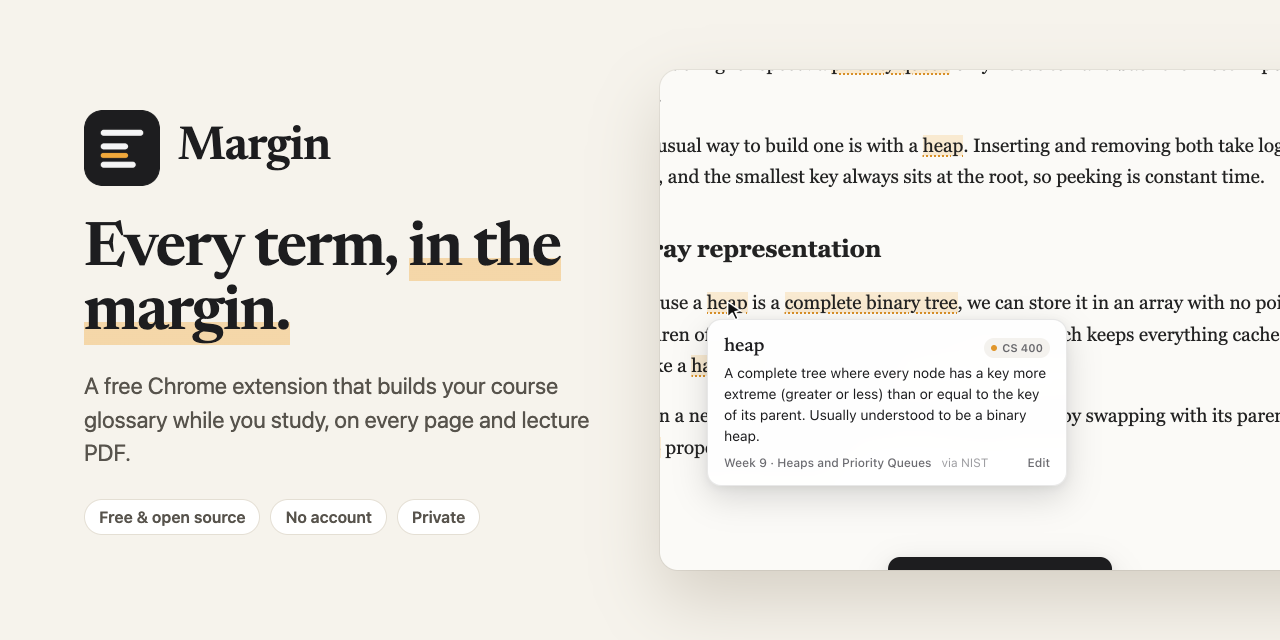
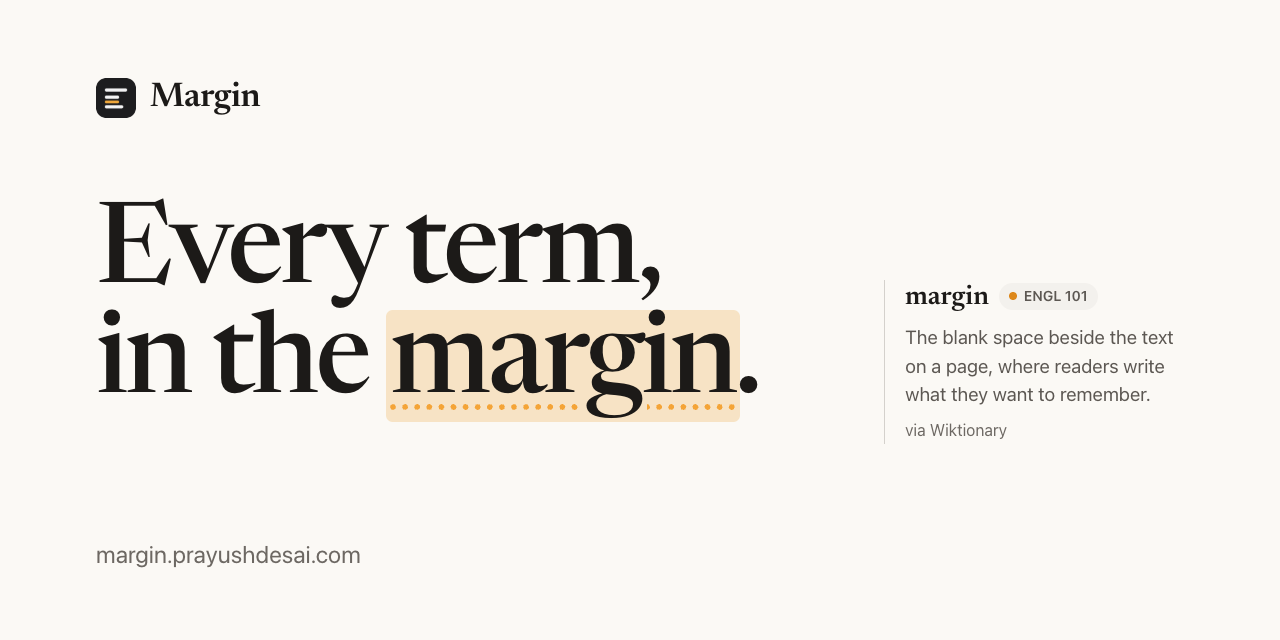
Point the repo at the new website and refresh share images
Link the website and its live demo from the README, document site/ in
CONTRIBUTING, and redraw the social preview and og image to match the
site's editorial hero.

diff --git a/README.md b/README.md
@@ -14,7 +14,7 @@ Save a term once and see its definition on Canvas, course sites and lecture PDFs
 ![No tracking](https://img.shields.io/badge/tracking-none-22a06b)
 ![Dependencies](https://img.shields.io/badge/dependencies-0-1d1d1f)
 
-[Features](#features) · [Where definitions come from](#where-definitions-come-from) · [Privacy](#privacy) · [How it works](#how-it-works) · [Contributing](CONTRIBUTING.md)
+**[Website](https://margin.prayushdesai.com)** · [Try it in your browser](https://margin.prayushdesai.com/#try) · [Features](#features) · [Where definitions come from](#where-definitions-come-from) · [Privacy](#privacy) · [How it works](#how-it-works) · [Contributing](CONTRIBUTING.md)
 
 <br>
 
@@ -101,7 +101,7 @@ Every suggestion is labelled with its source and links back to it. Licenses and 
 
 ## Install
 
-Margin is coming soon to the **Chrome Web Store**, which will be the only official place to get it.
+Margin is coming soon to the **Chrome Web Store**, which will be the only official place to get it. Until then, you can [try the live demo on the website](https://margin.prayushdesai.com/#try): hover a term, save a new one and take a practice quiz, no install needed.
 
 ### Keyboard shortcuts
 
@@ -162,6 +162,8 @@ node tools/check.mjs      # manifest references, imports and bundled data
 ```
 
 No Node? On macOS, `jsc -m tests/run.mjs` runs the tests with the built-in JavaScriptCore. See [CONTRIBUTING.md](CONTRIBUTING.md) for the project layout and guidelines.
+
+The website lives in [`site/`](site): plain HTML, CSS and JS with no build step, deployed to [margin.prayushdesai.com](https://margin.prayushdesai.com) by the [Website workflow](.github/workflows/pages.yml) on every push to `main` that touches it. Preview it with `python3 -m http.server -d site`.
 
 ## Roadmap
 

diff --git a/CONTRIBUTING.md b/CONTRIBUTING.md
@@ -35,6 +35,7 @@ CI runs both on every push and pull request.
 | `src/hub/` | Glossary, quiz, PDFs and settings |
 | `data/` | Bundled definitions (see `data/SOURCES.md`) |
 | `tools/` | Data builders, checks and packaging |
+| `site/` | The website ([margin.prayushdesai.com](https://margin.prayushdesai.com)): plain HTML, CSS and JS, deployed by `.github/workflows/pages.yml` |
 
 ## Guidelines
 
@@ -43,6 +44,7 @@ CI runs both on every push and pull request.
 - **Don't touch page HTML.** Highlights use `CSS.highlights`; UI lives in a closed shadow root.
 - **Match the design.** Use the tokens in `src/styles/tokens.css` and support light and dark mode.
 - Add a test in `tests/run.mjs` for logic changes.
+- **On the website,** keep motion tied to what Margin does (the demo, the how-it-works stage), respect `prefers-reduced-motion`, and skip generic effects like fade-in-on-scroll.
 
 ## Refreshing bundled definitions
 
